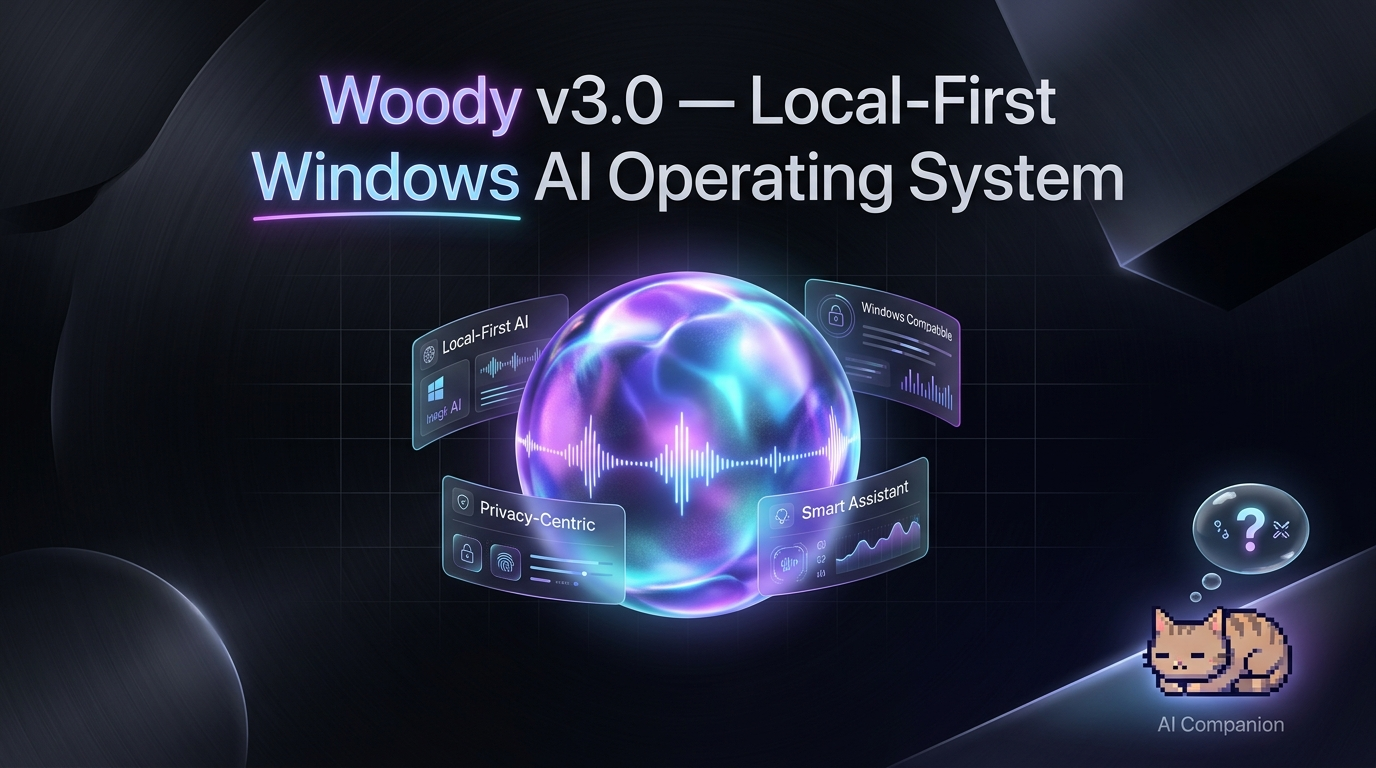
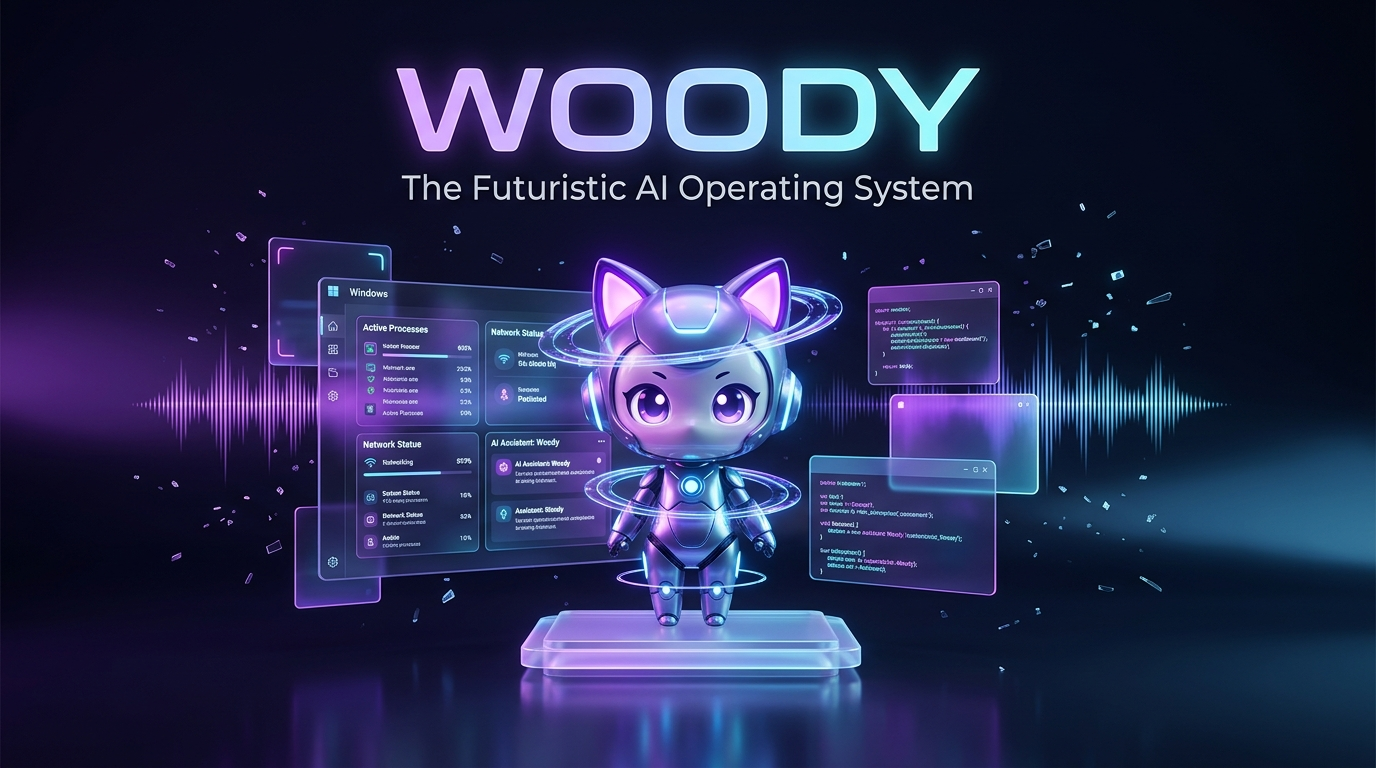
Update Readme

diff --git a/README.md b/README.md
@@ -1,69 +1,69 @@
 <div align="center">
 
-# 🌟 Woody v3.0 — Local-First Windows AI Operating System Layer
+# 🌟 Woody v3.0 — The Futuristic Windows AI Operating System Layer
 
 <p align="center">
-  <img src="assets/banner.jpg" alt="Woody v3.0 AI OS Layer" width="100%" />
+  <img src="assets/banner.jpg" alt="Woody AI Operating System Banner" width="100%" />
 </p>
 
-> **"Perceive. Reason. Act. Learn. Stay invisible until needed."**
+### *Perceive. Reason. Act. Learn. Stay invisible until summoned.*
 
-Woody is a persistent, multi-agent AI operating layer built natively for Windows — featuring local-first intelligence, multimodal screen perception, real-time voice interaction, fluid glassmorphism command centers, and an authentic interactive animated AI desktop companion powered by the **VPet Simulation Engine**.
+**Woody** is an autonomous, local-first Windows AI Operating System layer designed to transform your desktop experience. Engineered with multimodal screen vision, sub-second neural voice streaming, multi-agent swarm intelligence, fluid liquid glass HUDs, and an authentic animated AI desktop companion powered by the **VPet Simulation Engine**.
 
----
+<br/>
 
 [![Python 3.12+](https://img.shields.io/badge/Python-3.12%2B-3776AB?style=for-the-badge&logo=python&logoColor=white)](https://python.org)
 [![Platform: Windows 11/10](https://img.shields.io/badge/Platform-Windows_11%20%7C%2010-0078D4?style=for-the-badge&logo=windows&logoColor=white)](https://microsoft.com/windows)
-[![LangGraph Multi-Agent](https://img.shields.io/badge/Orchestration-LangGraph-FF6F00?style=for-the-badge&logo=langchain&logoColor=white)](https://langchain.com)
+[![LangGraph Multi-Agent](https://img.shields.io/badge/Swarm-LangGraph-FF6F00?style=for-the-badge&logo=langchain&logoColor=white)](https://langchain.com)
 [![VPet Simulation Engine](https://img.shields.io/badge/VPet_Engine-6%2C180%2B_Frames-9333EA?style=for-the-badge)](vpet/)
-[![Ollama Local LLMs](https://img.shields.io/badge/Local_LLM-Ollama-black?style=for-the-badge&logo=ollama&logoColor=white)](https://ollama.com)
-[![Inworld AI Voice](https://img.shields.io/badge/Neural_TTS-Inworld_AI-7C3AED?style=for-the-badge)](https://inworld.ai)
+[![Ollama Local LLMs](https://img.shields.io/badge/Local_LLM-Ollama_Offline-black?style=for-the-badge&logo=ollama&logoColor=white)](https://ollama.com)
+[![Inworld AI Voice](https://img.shields.io/badge/Neural_Voice-Inworld_AI_TTS-7C3AED?style=for-the-badge)](https://inworld.ai)
 [![License: MIT](https://img.shields.io/badge/License-MIT-10B981?style=for-the-badge)](LICENSE)
 
 </div>
 
 ---
 
-## ⚡ What's New in Woody v3.0
+## ⚡ What We Built: Highlights at a Glance
 
 <table>
   <tr>
     <td width="50%" valign="top">
-      <h3>🐾 Authentic VPet Desktop Companion (`--pet`)</h3>
+      <h3>🐾 Authentic VPet Desktop Companion (<code>--pet</code>)</h3>
       <ul>
-        <li><b>6,180+ Animation Frames & 25+ Actions:</b> Powered by official VPet core sprites (Idle, Meow, Tennis, Music, Sleep, Work, Pinch, Squat, Say, Level-Up).</li>
-        <li><b>Full RPG Stats & Life Simulation:</b> Dynamic Level & EXP, Money ($), Fullness (Hunger), Thirst, Stamina, Mood, and Likability tracking.</li>
-        <li><b>120+ Authentic Items & Shop:</b> Complete LinePutScript (<code>.lps</code>) foods, drinks, medicine, and gifts with official English translations.</li>
+        <li><b>6,180+ Animation Frames:</b> Native graph state machine executing 25+ official interactive animations (Idle, Meow, Tennis, Music, Sleep, Work, Pinch, Squat, Say, Level-Up).</li>
+        <li><b>Full RPG Life Simulation:</b> Real-time Level, EXP, Money ($), Fullness, Thirst, Stamina, Mood, and Likability tracking.</li>
+        <li><b>120+ Authentic LPS Catalog Items:</b> Complete LinePutScript items (foods, drinks, medicine, gifts) with full English localization.</li>
         <li><b>Work & Study Jobs:</b> Earn money through AI Coding, Live Streaming, Calligraphy, and Analytics with floating Purple WorkTimers.</li>
-        <li><b>Zero-Latency Neural Voice:</b> Sentence-pipelined Inworld TTS-2 streaming (&lt;50ms queue) with native audio cues (purrs, chimes, coins).</li>
+        <li><b>Zero-Latency Neural Voice:</b> Sentence-pipelined Inworld TTS-2 streaming (&lt;50ms queue) with native audio feedback cues.</li>
       </ul>
     </td>
     <td width="50%" valign="top">
-      <h3>🔮 Liquid Glass Command Center (`--web-ui`)</h3>
+      <h3>🔮 Liquid Obsidian Glass HUD (<code>--web-ui</code>)</h3>
       <ul>
-        <li><b>Apple Intelligence-Inspired UI:</b> Refractive glassmorphism with dynamic ambient lighting, specular depth, and fluid spring animations.</li>
-        <li><b>Live Audio Visualizer:</b> Real-time dynamic voice gradient glowing orb & responsive spectrum waveforms.</li>
-        <li><b>Streaming Swarm Transcripts:</b> Instant markdown chat stream, step-by-step reasoning nodes, and activity audit log.</li>
-        <li><b>Interactive Confirmation Cards:</b> Inline approvals for high-privilege system actions before execution.</li>
+        <li><b>Apple-Inspired Glassmorphism:</b> Translucent obsidian backdrop (<code>blur: 40px</code>, <code>saturate: 230%</code>) with revolving Indigo-Violet neon borders.</li>
+        <li><b>Dynamic Voice Visualizer Orb:</b> Real-time pulsating acoustic visualizer modulating to your voice input.</li>
+        <li><b>Live Multi-Agent Streaming:</b> Syntax-highlighted code blocks (Fira Code), step-by-step reasoning nodes, and active agent badges.</li>
+        <li><b>Human-in-the-Loop Safety Cards:</b> Interactive confirmation dialogs before executing privileged system operations.</li>
       </ul>
     </td>
   </tr>
   <tr>
     <td width="50%" valign="top">
-      <h3>👁 Multimodal Screen Vision Agent</h3>
+      <h3>👁 Multimodal Screen Perception</h3>
       <ul>
         <li><b>Live Screen Analysis:</b> Seamlessly inspects active windows, multi-monitor setups, and UI controls via Groq Llama-3.2 Vision / Qwen2.5-VL.</li>
-        <li><b>Low-Overhead Event Hooks:</b> Event-driven Win32 hooks trigger screen perception without draining CPU/battery.</li>
-        <li><b>Visual UI Grounding:</b> Recognizes buttons, input fields, forms, and error dialogs for high-precision desktop automation.</li>
+        <li><b>Event-Driven Win32 Hooks:</b> Low-overhead background hooks capture screen state without draining CPU or battery.</li>
+        <li><b>Visual UI Grounding:</b> Pinpoints buttons, input fields, forms, and error dialogs for high-precision desktop automation.</li>
       </ul>
     </td>
     <td width="50%" valign="top">
-      <h3>🚀 Pipelined Speech & Multi-Agent Swarm</h3>
+      <h3>🚀 Autonomous Multi-Agent Swarm</h3>
       <ul>
-        <li><b>Sub-Second Voice Loop:</b> OpenWakeWord ("Hey Woody") + Silero VAD + Faster-Whisper streaming STT.</li>
-        <li><b>LangGraph Swarm Routing:</b> Autonomous intent decomposition between Desktop, Vision, System, Browser, and Chat agents.</li>
-        <li><b>Critic/Verifier Self-Correction:</b> Automated verification loops ensure desktop commands succeed accurately.</li>
-        <li><b>Model Context Protocol (MCP):</b> Connect external tools and enterprise data sources via MCP manifests.</li>
+        <li><b>LangGraph Swarm Routing:</b> Decomposes complex queries across Desktop, Vision, System, Browser, and Coding agents.</li>
+        <li><b>Win32 Desktop Automation:</b> Direct UI automation, clicking, typing, hotkey macros, and window tiling.</li>
+        <li><b>Critic Closed-Loop Verification:</b> Automated verification engine validates outcomes and self-corrects on failure.</li>
+        <li><b>Model Context Protocol (MCP):</b> Connects enterprise data sources and custom tools via MCP server manifests.</li>
       </ul>
     </td>
   </tr>
@@ -73,7 +73,7 @@ Woody is a persistent, multi-agent AI operating layer built natively for Windows
 
 ## 🐾 Meet Woody — Your AI Desktop Pet Companion
 
-Woody is not just a background daemon; it comes with an authentic, fully animated **AI Desktop Pet** that lives directly on your Windows screen. Ask questions, have it inspect your screen, automate desktop tasks, feed it snacks, or let it work jobs to earn money!
+Woody is not just a hidden background daemon; it features an authentic, fully animated **AI Desktop Pet** that lives directly on your Windows desktop. Talk to Woody via voice, have it inspect your active applications, automate tedious workflows, feed it snacks, or let it work jobs to earn money!
 
 <p align="center">
   <img src="assets/desktop_pet.jpg" alt="Woody AI Desktop Pet Showcase" width="95%" />
@@ -90,9 +90,9 @@ Woody is not just a background daemon; it comes with an authentic, fully animate
 
 </div>
 
-### ✨ VPet Simulation Highlights:
+### ✨ VPet Simulation Features:
 - **6,180+ Official Animation Frames:** Direct integration of the official LorisYounger/VPet core sprite graph across 25+ unique interactive animations.
-- **5-Tab Floating Toolbar (Purple Theme `prupe.lps`):**
+- **5-Tab Floating Royal Purple Toolbar (`prupe.lps`):**
   - 🍲 **Feed:** Feed foods, drinks, snacks, and medicine to restore fullness and health.
   - 📊 **Status:** View Level, EXP, Health, Stamina, Mood, Hunger, Thirst, and Likability.
   - 🎭 **Interact:** Play tennis, blow bubbles, touch head/body, pinch cheeks, or make it dance.
@@ -110,7 +110,7 @@ woody --pet
 
 ---
 
-## 🔮 Liquid Glass Command Center & Web Overlay
+## 🔮 Liquid Obsidian Glass Command Center (`--web-ui`)
 
 Woody features a state-of-the-art UI system crafted with **Apple-inspired fluid glassmorphism**, specular catch-lights, and responsive ambient backdrops.
 
@@ -122,6 +122,10 @@ Woody features a state-of-the-art UI system crafted with **Apple-inspired fluid 
 - **Live Markdown Stream:** Watch agent reasoning steps, code blocks, and formatted summaries appear incrementally.
 - **Multi-Agent Switcher:** Monitor real-time statuses for **Desktop Agent**, **Vision Agent**, **System Agent**, and **Memory**.
 - **Human-in-the-Loop Safety:** Destructive actions (e.g. deleting files, closing unsaved apps) generate inline confirmation cards requiring explicit authorization.
+- **Global Hotkeys:**
+  - `Ctrl + Alt + Space` / `Ctrl + Space` — Toggle Command Center HUD
+  - `Ctrl + /` — Instant focus into prompt textarea
+  - `Esc` — Collapse & hide to system tray
 
 ```bash
 # Launch Woody with the full Glassmorphism WebEngine Overlay
@@ -205,7 +209,7 @@ woody
 
 ---
 
-## 🚀 Quick Start
+## 🚀 Quick Start Guide
 
 ### 1. Prerequisites
 - **Windows 10 / 11** (Required for Win32 API & UI Automation)
@@ -321,6 +325,9 @@ agents:
 ```
 Wodi/
 ├── assets/                  # Banners, interface mockups, showcase imagery
+│   ├── banner.jpg           # Hero banner
+│   ├── command_center.jpg   # Obsidian glass command center HUD
+│   └── desktop_pet.jpg      # VPet desktop companion showcase
 ├── config/                  # Default configurations (woody_config.yaml)
 ├── gifs/                    # Sprite fallback animation loops
 ├── scripts/                 # Automated setup & utility scripts (install.ps1)
@@ -330,7 +337,7 @@ Wodi/
 └── woody/                   # Core Python package
     ├── agents/              # LangGraph multi-agent swarm (Desktop, Vision, System, Browser, Chat)
     ├── critic/              # Verification & self-correction engine
-    ├── ipc/                 # Inter-process communication & event bus
+    ├── ipc/                 # Inter-process communication & FastAPI SSE event bus
     ├── kernel/              # Core lifecycle, configuration & hardware tier detection
     ├── memory/              # Vector RAG & episodic conversation memory
     ├── observability/       # Logging, tracing & evaluation harness
